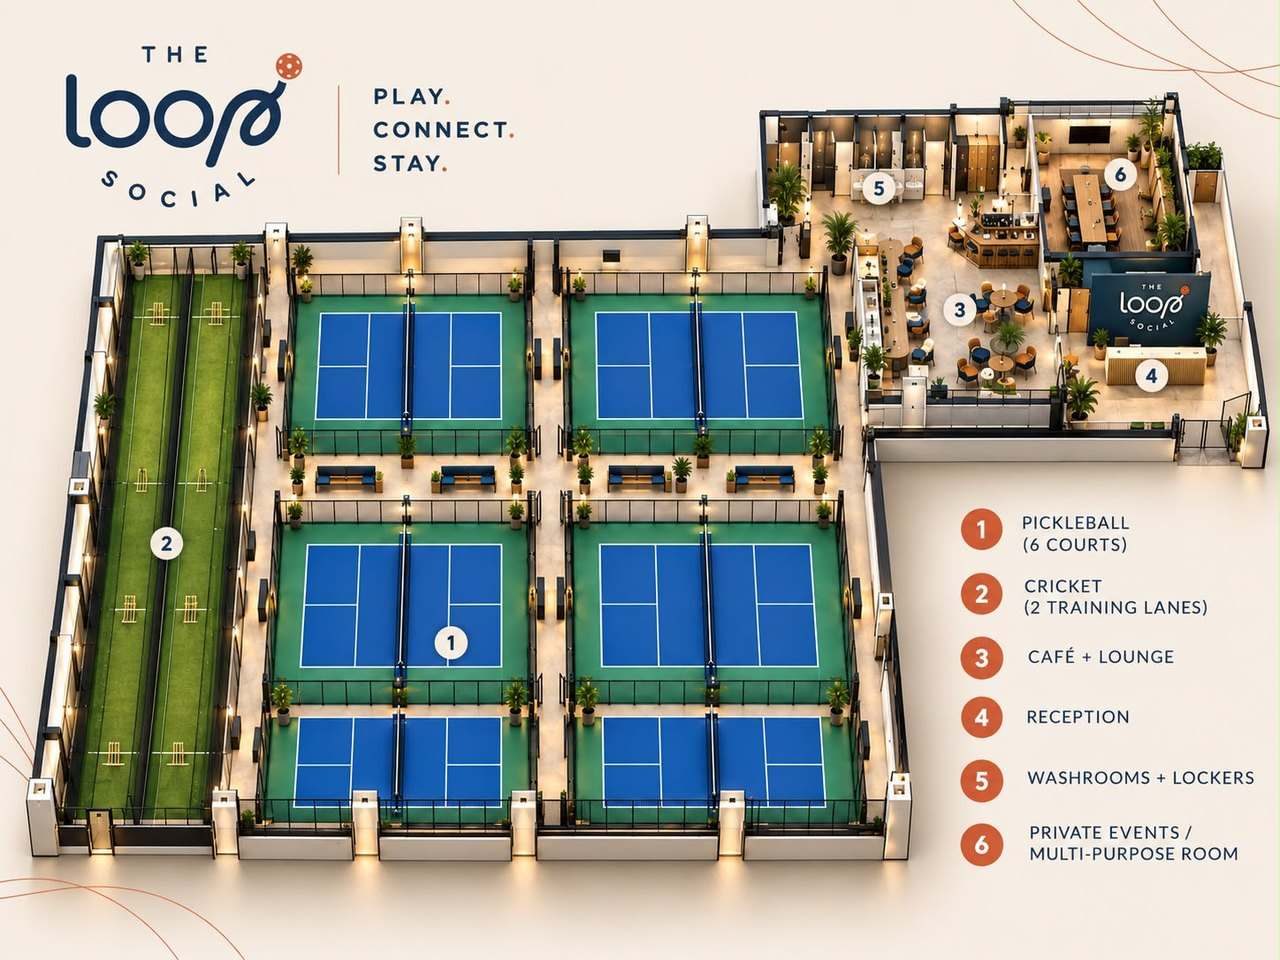
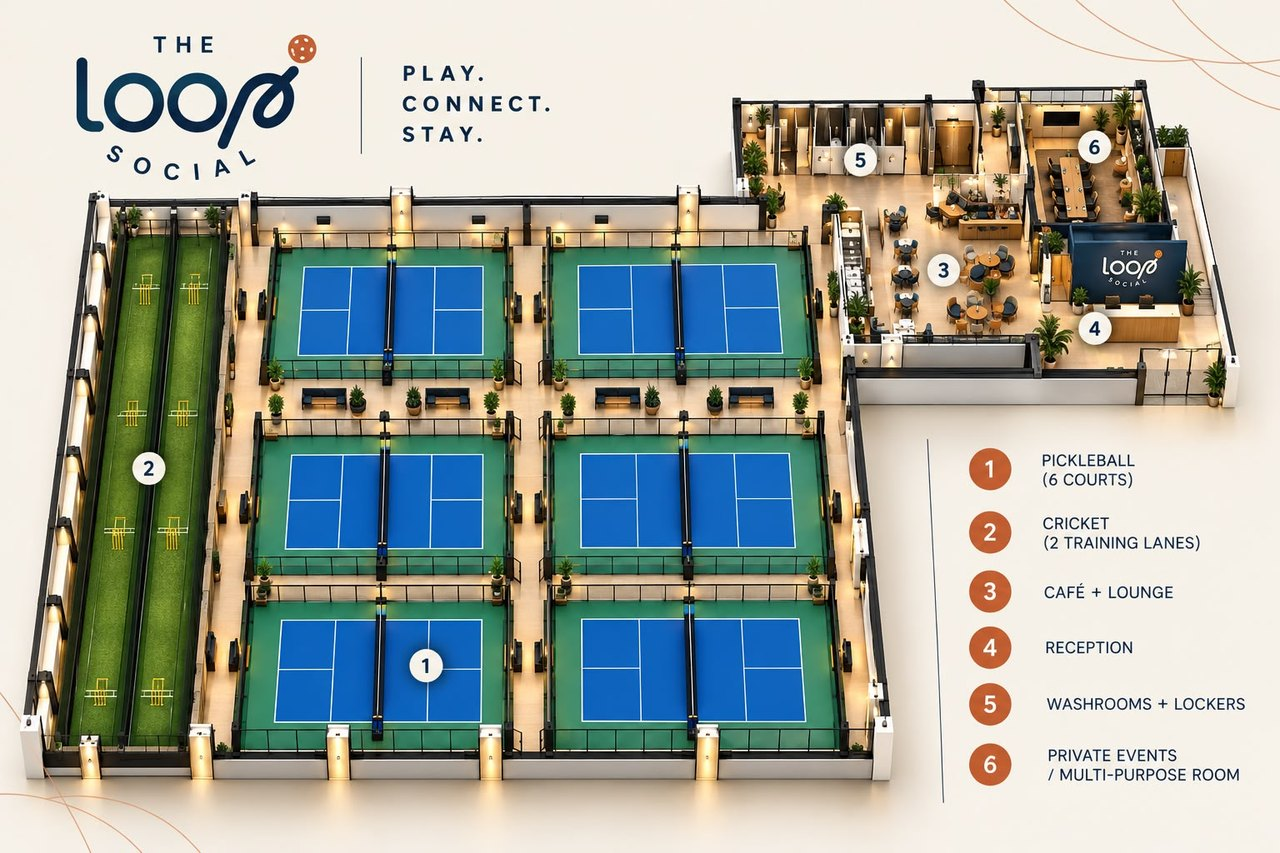
Update the hero floor plan with the new render
Claude-Session: https://claude.ai/code/session_01LqcS6H1srkWPHhgQVS6gZx

diff --git a/app/_components/HeroVisual.tsx b/app/_components/HeroVisual.tsx
@@ -4,7 +4,7 @@ import floorPlan from "../../public/photos/floor-plan.jpg";
 /** Hero panel: the club's floor plan, shown whole so its numbered legend stays readable. */
 export function HeroVisual() {
   return (
-    <figure className="m-0 overflow-hidden rounded-[28px] border border-cream/15 bg-[#f6eee4]">
+    <figure className="m-0 overflow-hidden rounded-[28px] border border-cream/15 bg-[#f6f1e8]">
       <Image
         src={floorPlan}
         alt="Floor plan of The Loop Social: 6 pickleball courts, 2 cricket training lanes, a café and lounge, reception, washrooms and lockers, and a private events room"
